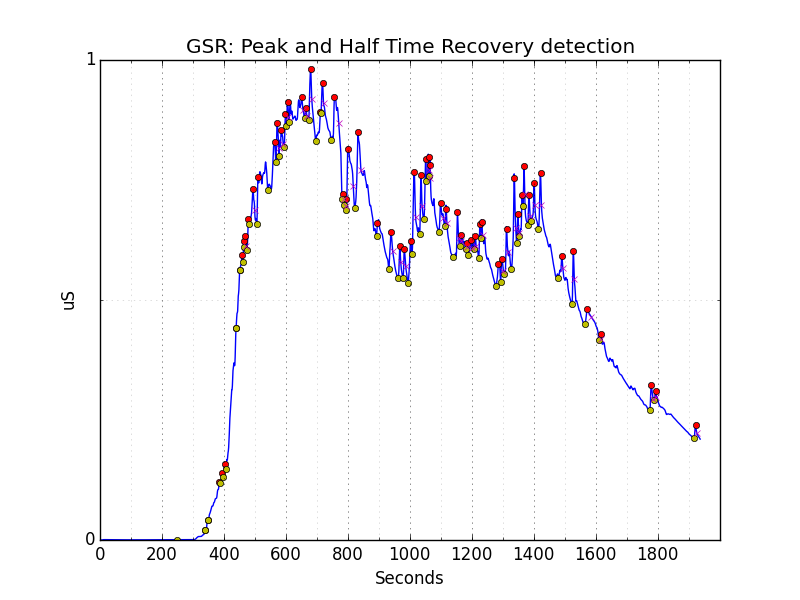
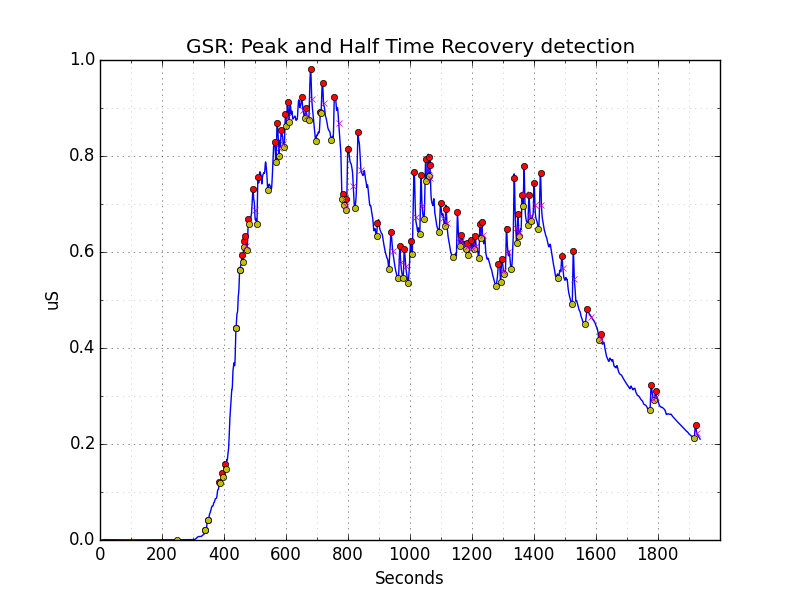
IBI Feature extractor added

diff --git a/process.py b/process.py
@@ -4,6 +4,7 @@ from sklearn import preprocessing
 import numpy as np
 from HalfRecoveryTimeDetector import HalfRecoveryTimeDetector
 from HRFeatureExtractor import HRFeatureExtractor
+from IBIFeatureExtractor import IBIFeatureExtractor
 def plotGSR(subject,test,session,_limx=None,_limy=None,_groupBySec=True):
 	u = u'\u00B5'
         s = session
@@ -344,12 +345,13 @@ if (__name__ == "__main__"):
 			_s,_e,_l = seg
 			if (_l != -1):
                                 hrfe = HRFeatureExtractor(s._dataZEPHYR_HR[_s:_e])
+                                ibife = IBIFeatureExtractor(s._dataZEPHYR_IBI[_s:_e])
                                 #print _l,",",hrfe.extract()
                                 htr = HalfRecoveryTimeDetector(_data[_s:_e])
                                 #plotGSR("p7/alfonso_relax2","alfonso_relax2_GSR_%i_%i" %(_s,_e),s,_limy=[0.0,20.0],_limx=[_s,_e])
                                 #plotHR_ZEPHYR("p7/alfonso_relax2","alfonso_relax2_%i_%i" %(_s,_e),s,_limy=[0,120],_limx=[_s,_e])
                                 for _val in htr.toCSV():
-                                    print str(_l)+","+",".join(str(i) for i  in _val)+","+",".join( str(i) for i in hrfe.extract())
+                                    print str(_l)+","+",".join(str(i) for i  in _val)+","+",".join( str(i) for i in hrfe.extract())+","+",".join ( str(i) for i in ibife.extract())
 
 
                 ######session2###################
@@ -368,12 +370,13 @@ if (__name__ == "__main__"):
 			_s,_e,_l = seg
 			if (_l != -1):
                                 hrfe = HRFeatureExtractor(s._dataZEPHYR_HR[_s:_e])
-                                #print _l,",",hrfe.extract()
+                                ibife = IBIFeatureExtractor(s._dataZEPHYR_IBI[_s:_e])
                                 htr = HalfRecoveryTimeDetector(_data[_s:_e])
                                 #plotGSR("p7/alfonso_relax2","alfonso_relax2_GSR_%i_%i" %(_s,_e),s,_limy=[0.0,20.0],_limx=[_s,_e])
                                 #plotHR_ZEPHYR("p7/alfonso_relax2","alfonso_relax2_%i_%i" %(_s,_e),s,_limy=[0,120],_limx=[_s,_e])
                                 for _val in htr.toCSV():
-                                    print str(_l)+","+",".join(str(i) for i  in _val)+","+",".join( str(i) for i in hrfe.extract())
+                                    print str(_l)+","+",".join(str(i) for i  in _val)+","+",".join( str(i) for i in hrfe.extract())+","+",".join ( str(i) for i in ibife.extract())
+
                                 #print "-----------"
                 """
 

diff --git a/classify.py b/classify.py
@@ -3,6 +3,8 @@ import sys
 from sklearn.metrics import confusion_matrix
 from sklearn.metrics import precision_score
 from sklearn.metrics import recall_score
+import numpy as np
+import matplotlib.pyplot as plt
 def readFile(_F):
     with open(_F,"r") as _FILE:
         _lines = _FILE.readlines()
@@ -34,8 +36,8 @@ def convertLine(_line):
                 _l.append( float(_line[_x]))
     return _l
 def takeSample(_maxSample,_s=0):
-    _X =    _dataB[_s:_maxSample+_s] + _dataC[_s:_maxSample+_s]
-    _y =   [1]*_maxSample + [2]*_maxSample
+    _X =   _dataA[_s:_maxSample+_s] + _dataB[_s:_maxSample+_s] + _dataC[_s:_maxSample+_s] + _dataD[_s:_maxSample+_s]
+    _y =   [0]*_maxSample +[1]*_maxSample + [2]*_maxSample + [3]*_maxSample
     return _X,_y
 if __name__ == "__main__":
     _file_path = sys.argv[1]
@@ -45,16 +47,15 @@ if __name__ == "__main__":
     print "     class 1 available data: %i" %(len(_dataB))
     print "     class 2 available data: %i" %(len(_dataC))
     print "     class 3 available data: %i" %(len(_dataD))
-    print "     Taking sample of: %i" %(19)
-    clf = svm.SVC()
-    X,y = takeSample(20)
-    _X,_y = takeSample(10,19)
+    print "     Taking sample of: %i" %(12)
+    clf = svm.SVC(kernel='linear')
+    X,y = takeSample(5)
+    _X,_y = takeSample(4,5)
     clf.fit(X,y)
-    svm.SVC(C=1.0, cache_size=200, class_weight=None, coef0=0.0, degree=3,
-    gamma=0.0, kernel='rbf', max_iter=-1, probability=False, random_state=None,
-    shrinking=True, tol=0.001, verbose=True)
     y_pred = clf.predict(_X)
     cm = confusion_matrix(_y, y_pred)
     print cm
     print "Precision: %f" %(precision_score(_y,y_pred)*100)
     print "Recall: %f" %(recall_score(_y,y_pred) *100)
+
+   

diff --git a/HalfRecoveryTimeDetector.py b/HalfRecoveryTimeDetector.py
@@ -105,8 +105,8 @@ class HalfRecoveryTimeDetector:
                 major_ticks = np.arange(0, len(self._data), _xTick)                                              
                 minor_ticks = np.arange(0, len(self._data), _xMinorTick)     
 
-                major_ticks_y = np.arange(0, len(self._data), 1)                                              
-                minor_ticks_y = np.arange(0, len(self._data), 0.5)     
+                major_ticks_y = np.arange(0, 1.1, 0.2)                                              
+                minor_ticks_y = np.arange(0, 1.1, 0.1)     
                 ax.set_xticks(major_ticks)                                                       
                 ax.set_xticks(minor_ticks, minor=True)                                           
                 ax.set_yticks(major_ticks_y)                                                       
@@ -159,4 +159,5 @@ class HalfRecoveryTimeDetector:
                     _valsToPrint.append(str(_peak["halfRecoveryValue"]))
                     _valsToPrint.append(str(_peak["distanceToPrevPeak"]))
                     _data.append([",".join(_valsToPrint)])
+                    break
 	    return _data

diff --git a/IBIFeatureExtractor.py b/IBIFeatureExtractor.py
@@ -1,10 +1,11 @@
 from sklearn import preprocessing
-class HRFeatureExtractor:
+import numpy
+class IBIFeatureExtractor:
 	def __init__(self,_data):
 		self._data = _data
                 self.cleanData()
                 self.normalize()
-		self._HRFeatures = []
+		self._IBIFeatures = []
 		self._cdata = []
         def cleanData(self):
                 data = []
@@ -16,7 +17,8 @@ class HRFeatureExtractor:
                 self._data = min_max_scaler.fit_transform(self._data)
 
 	def extract(self):
-		_max = max(self._data)
+		_min = min(self._data)
 		_avg = reduce(lambda x, y: x + y, self._data) / len(self._data)
-		self._HRFeatures = [_max,_avg]
-		return self._HRFeatures
+                _sd  = numpy.std(self._data)
+		self._IBIFeatures = [_min,_avg,_sd]
+		return self._IBIFeatures
